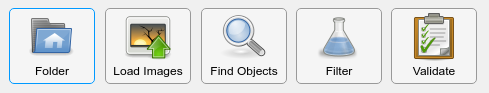
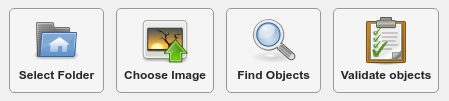
Website updates

Changed region(s): [[0.0, 0.0645, 0.9978, 0.9247]]

diff --git a/docs/index.html b/docs/index.html
@@ -56,26 +56,16 @@
       <section id="main_content" class="inner">
         <div style="text-align:center"><h2>What is ObjectFinder?</h2><img src ="images/app_icon_big.png"/></div>
         <p>
-        ObjectFinder is a MATLAB® app that allows you to recognize a large number of small structures, such as synapses in neuronal tissue, within a three-dimensional image volume. </p>
+        ObjectFinder is a MATLAB® app that allows you to recognize small structures in a large volumetric image, plot their statistics and perform quantitative analysis such as nearest neighbor and colocalization analysis.</p>
 
-        <p>ObjectFinder was originally developed for neuroscience research purposes, where it is able to detect fluorescently-labeled synapses in neuronal image stacks acquired using confocal or super-resolution microscopes.</p>
+        <p>This software is developed for neuroscience research purposes, where it is able to detect fluorescently-labeled synapses in neuronal image stacks acquired using confocal or super-resolution microscopes.</p>
 
-        <div style="text-align:center"><img src ="images/Screenshot_heatmap.png" width="60%"/></div>
-
-        <div style="text-align:center"><h2>Free as in freedom</h2></div>
+        <div style="text-align:center"><img src ="images/logo_open_source.png" width="40%"/></div>
 
         <p>ObjectFinder is licensed under <a href="https://www.gnu.org/licenses/gpl-3.0.en.html">GNU General Public License v3.</a>
         This strong copyleft license ensures you will always have the right to obtain ObjectFinder for free, view and modify the source code to review its functionality and improve its features.</p>
-        <div style="text-align:center"><img src ="images/logo_open_source.png" width="40%"/></div>
 
         <p>We strongly believe that software developed for data analysis in scientific research must be open source, to ensure the highest level of reproducibility of your science.</p>
-
-        <div style="text-align:center"><h2>Tuned for speed!</h2></div>
-
-        <p>ObjectFinder can search hundred thosands objects in a matter of minutes by taking full advantage of your computer's CPU cores, this is achieved by implementing multi-threaded search inside the 3D volume.</p>
-
-        <p>For a typical workstation with an 8-core CPU this means an 8X fold faster speed compared to a classic app running on the same computer!</p>
-        <div style="text-align:center"><img src ="images/speed.png" width="80" height="80"/></div>
 
         <div style="text-align:center"><h2>Multiplatform architecture</h2></div>
 
@@ -84,21 +74,32 @@
 
         Having a single codebase for all platforms makes developing new features as well as fixing bugs a much faster and enjoyable journey.
 
-        <div style="text-align:center"><h2>Seamlessly integrated with Bitplane Imaris®</h2></div>
+        <div style="text-align:center"><h2>Visually interact with your data</h2></div>
 
-        ObjectFinder can display detected objects in Imaris® to take full advantage of Imaris advanced 3D rendering capabilities.
+        <p>ObjectFinder can display detected objects using the builtin volume inspector against your source image volime, explore, filter and interact directly with detected objects.</p>
+        <div style="text-align:center"><img src ="images/Screenshot_inspector.png" width="100%"/></div>
+
+        <p>Need to render your data? ObjectFinder seamlessly supports visualization of objects using Bitplane Imaris® to take full advantage of Imaris advanced 3D rendering capabilities.
         <div style="text-align:center"><img src ="images/Screenshot_imaris.png" width="100%"/></div>
         <p>You can visually add, remove or filter objects by visual inspection against the original signal and export them back to ObjectFinder for further processing.</p>
 
-        <div style="text-align:center"><h2>Export results to Microsoft Excel®</h2></div>
+        <div style="text-align:center"><h2>Plot results and export data to Excel</h2></div>
 
         Analysis results can be exported to Excel spreadsheets for further elaboration or plotting using your favorite data analysis application.
-        <div style="text-align:center"><img src ="images/Screenshot_export_excel.png" width="100%"/></div>
+        <div style="text-align:center"><img src ="images/Screenshot_excel.png" width="100%"/></div>
+
+        <div style="text-align:center"><h2>Deep Learning at your service</h2></div>
+
+        <p>Do you have millions of candidate to validate as objects vs noise? Train your personal deep learning network using you own trusted data to automatize and reduce subjectivity of this critical step.</p>
+
+        <p>ObjectFinder uses the latest deep learning technology together with GPU computing to scale up the validation of large number of objects. This feature takes advantage of recent NVIDIA graphic cards through the Neural Network toolbox.</p>
+        <div style="text-align:center"><img src ="images/Screenshot_NeuralNet.png" width="100%"/></div>
 
         <div style="text-align:center"><h2>Works around <i>your</i> schedule</h2></div>
 
-        Schedule ObjectFinder to start the automatic object finding process anytime within 24 hours to keep working on your other projects. Then let ObjectFinder do the work during your quiet hours, day or night. Do you have multiple images to process? Use the automation tab to allow batch processing without user supervision!
-        <div style="text-align:center"><img src ="images/Screenshot_timer.png" width="100%"/></div>
+        <p>Schedule ObjectFinder to start searching for objects during your quiet hours, so you keep working on your other projects.</p>
+        <p>Do you have multiple images to process? Use the automation tab to allow batch processing without user supervision.
+        <div style="text-align:center"><img src ="images/Screenshot_timer.png" width="60%"/></div>
 
         <div style="text-align:center"><h2>How do I install and use ObjectFinder?</h2></div>
 
@@ -117,30 +118,40 @@
        <div style="text-align:center"><img src ="images/Screenshot_toolbar.png" width="80%"/></div>
 
        <ol>
-          <li>Click "Folder" and Select "MyExperiment" as the current working folder to use for analysis.</li>
-          <li>Click "Load Images" to choose which image contains the structures to recognize. Optionally, you can also specify which a 3D binary mask to limit the search.</li>
+          <li>"Select Folder" to choose "MyExperiment" as the current working folder to use for analysis.</li>
+          <li>"Choose Images" to tell ObjectFinder which image contains the structures to recognize. You can also specify a 3D binary mask to limit the search only to the masked region.</li>
           <div style="text-align:center"><img src ="images/Screenshot_ImageSelection.png" width="100%"/></div>
-          <li>Click "Search Objects" to start the automatic search of objects.</li>
-          <li>Click "Filter" to reject candidate objects not meeting specified criteria</li>
-          <li>Click on "Inspect" to visually inspect and validate objects.</li>
+          <li>"Find Objects" to start the automatic search of objects.</li>
+          <li>"Validate objects" to visually inspect and validate objects from noise.</li>
        </ol>
 
          <div style="text-align:center"><h2>System Requirements</h2></div>
 
-        Software:
-        <ul style="list-style-type:none">
-          <li><a href="https://www.mathworks.com/products/matlab.html">MATLAB</a> R2017b or newer</li>
-          <li><a href="https://www.mathworks.com/products/image.html">Image Processing Toolbox</a></li>
-          <li><a href="https://www.mathworks.com/products/parallel-computing.html">Parallel Computing Toolbox</a> (optional)</li>
-          <li><a href="http://www.bitplane.com/">Bitplane Imaris</a> for 3D inspection (optional)</li>
-        </ul>
+        <table width="100%">
+          <tr>
+            <td>Software:</td>
+            <td>Hardware (recommended):</td>
+          </tr>
+          <tr>
+            <td>
+              <ul style="list-style-type:none">
+                <li><a href="https://www.mathworks.com/products/matlab.html">MATLAB</a> R2018a or newer</li>
+                <li><a href="https://www.mathworks.com/products/image.html">Image Processing Toolbox</a></li>
+                <li><a href="https://www.mathworks.com/products/parallel-computing.html">Parallel Computing Toolbox</a> (optional)</li>
+                <li><a href="https://www.mathworks.com/products/neural-network.html">Neural Network Toolbox</a> (optional)</li>
+                <li><a href="http://www.bitplane.com/">Bitplane Imaris</a> for 3D inspection (optional)</li>
+              </ul>
+            </td>
+            <td>
+              <ul style="list-style-type:none">
+                <li>CPU: Intel Xeon >2GHz</li>
+                <li>RAM: 32Gb</li>
+                <li>GPU: NVidia for deep learning</li>
+              </ul>
+            </td>
+          </tr>
+        </table>
 
-        Hardware (recommended):
-        <ul style="list-style-type:none">
-          <li>Processor (CPU): Intel Xeon >2GHz</li>
-          <li>System Memory (RAM): 32Gb</li>
-          <li>Video Card (GPU): NVidia Quadro with 4Gb VRAM</li>
-        </ul>
       </section>
     </div>
 

diff --git a/docs/stylesheets/stylesheet.css b/docs/stylesheets/stylesheet.css
@@ -188,7 +188,7 @@ hr {
 }
 
 table {
-  border: 1px solid #373737;
+  border: 0px solid black;
   margin-bottom: 20px;
   text-align: left;
  }
@@ -201,7 +201,7 @@ th {
 
 td {
   padding: 10px;
-  border: 1px solid #222;
+  border: 0px solid black;
  }
 
 form {
